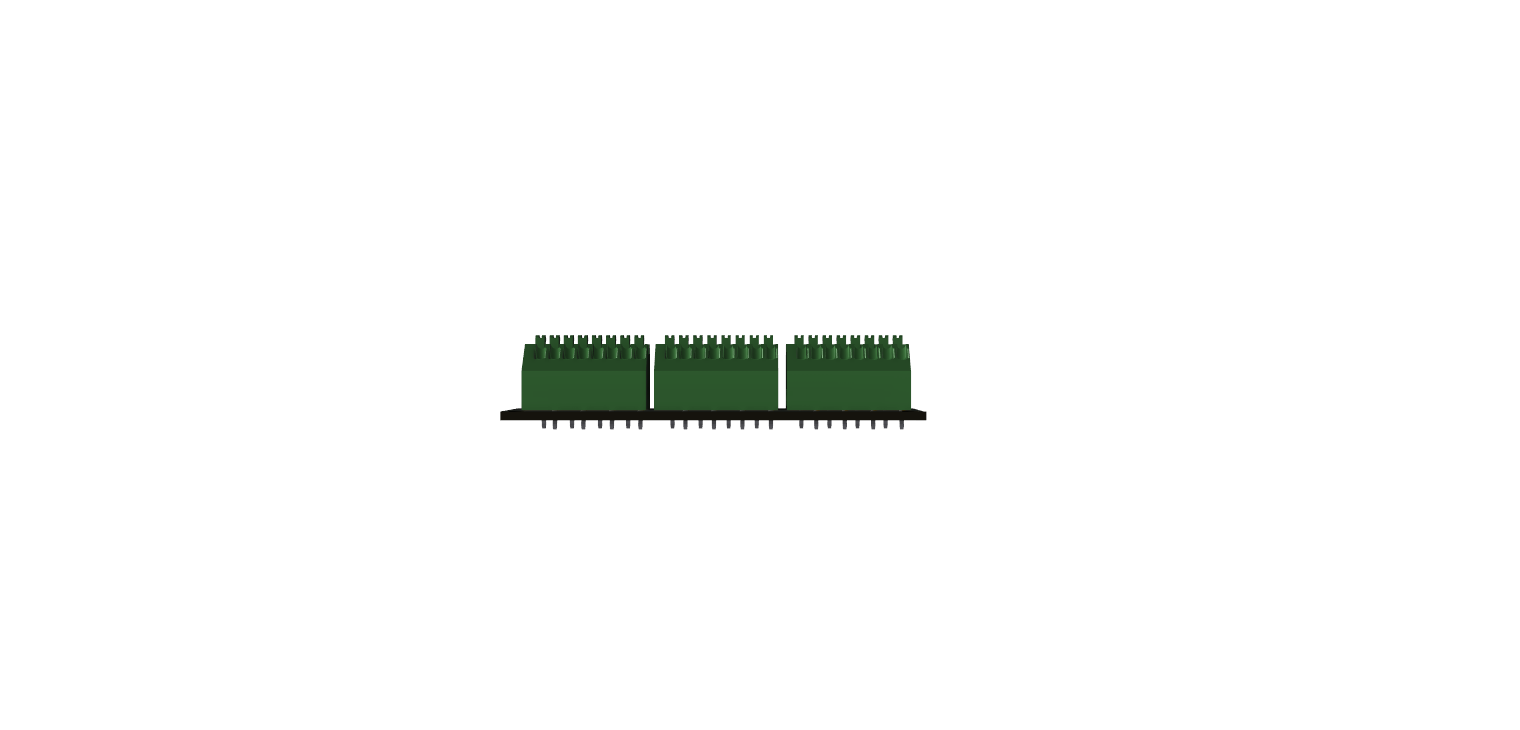
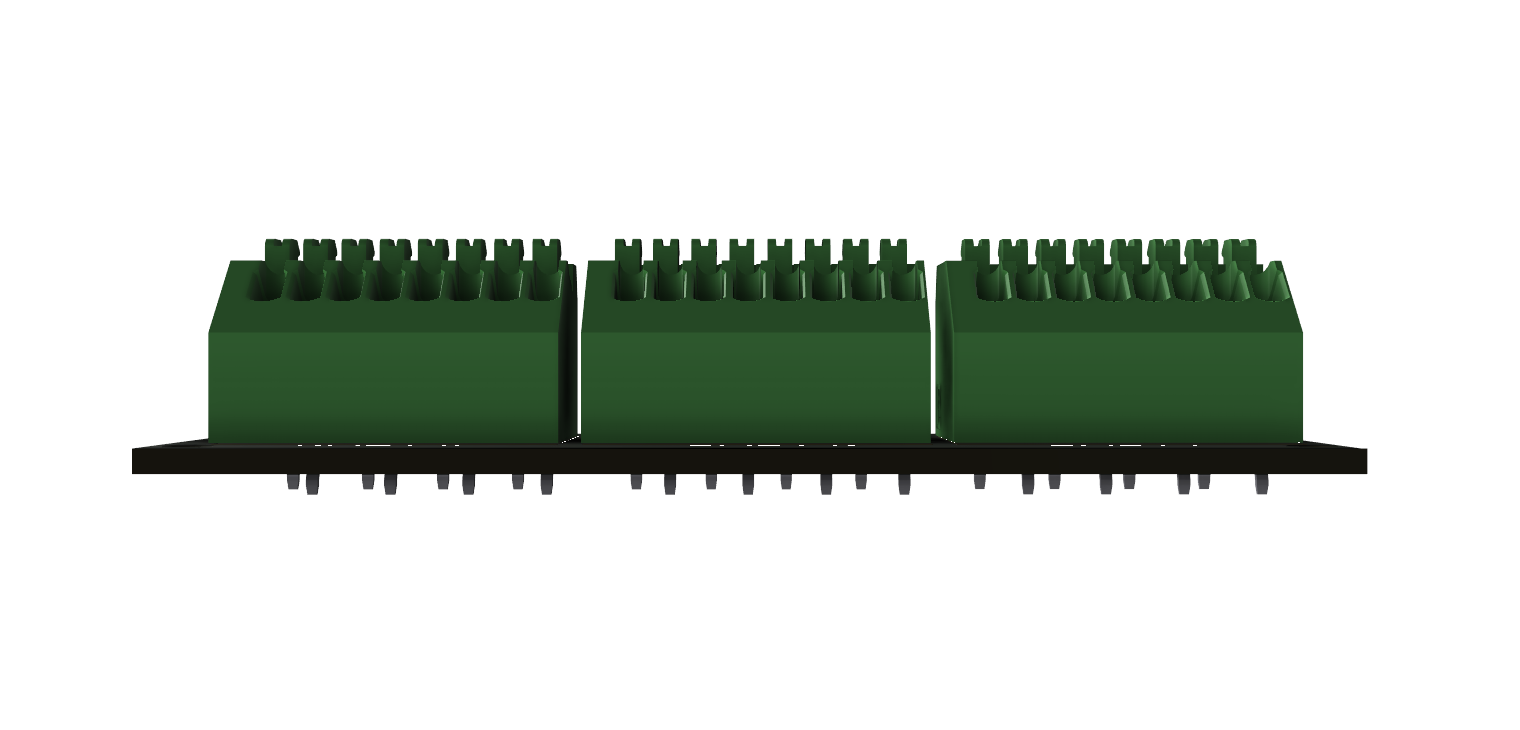
Update readme

Changed region(s): [[0.0618, 0.3014, 0.8967, 0.6932]]

diff --git a/README.md b/README.md
@@ -1,5 +1,5 @@
 # 3x8 Terminal Block
-Simple 3x8 terminal block, alternative to Wago. The nominal current of a single port is 2A, 250V
+Simple 3x8 terminal block, alternative to Wago. The nominal current of a single port is 2A, 250V. Designed for mounting on a DIN rail.
 
 ## PCB manufacturing
 Schematics, gerbers and Bill of Materials (BOM) are available under *Electronic Design* directory. PCBs can be oredered on JLCPCB or any other PCB manufacturer. It is recommended to buy components from reliable sources like Mouse, Farnell, Digikey, TME. All symbols and footprints on the schematics was acquired from mouser page.
@@ -7,13 +7,21 @@ Schematics, gerbers and Bill of Materials (BOM) are available under *Electronic 
 ## Bill of Materials
 There is only one type of component, 3 pcs per PCB - connector Phoenix Contact PTSA 0,5/ 8-2,5-Z
 
+#### DIN Holder:
+* ITALTRONIC 2x 07.6010000\
+* ITALTRONIC 1x 07.6000000
+
+See Links section for datasheets.
+
 ## Images
 ![Top view](https://github.com/TestDuino/3x8_TerminalBlock/blob/main/Images/3X8_TERMINAL_BLOCK_TopView.png)
 ![Left side view](https://github.com/TestDuino/3x8_TerminalBlock/blob/main/Images/3X8_TERMINAL_BLOCK_LeftSide.png)
-![Bottom side view](https://github.com/TestDuino/3x8_TerminalBlock/blob/main/Images/3X8_TERMINAL_BLOCK_BottomSide.png)
+![Front side view](https://github.com/TestDuino/3x8_TerminalBlock/blob/main/Images/3X8_TERMINAL_BLOCK_Front.png)
 
 ### Contributions
 If you find any bugs, have suggestions, or would like to contribute to the development of this project, feel free to contact me or submit a pull request (PR). Your contributions are greatly appreciated, and I am always open to feedback and collaboration. Thank you for helping to improve this project!
 
 ### Links
-1990067 datasheet | https://www.phoenixcontact.com/en-us/products/printed-circuit-board-terminal-ptsa-05-8-25-z-1990067?type=pdf
+1990067 (PTSA 0,5/ 8-2,5-Z) datasheet | https://www.phoenixcontact.com/en-us/products/printed-circuit-board-terminal-ptsa-05-8-25-z-1990067?type=pdf\
+ITALTRONIC 2x 07.6010000 | https://www.tme.eu/Document/9cda323b00e20a6973f34dfd1a1a7434/07_6010000.pdf\
+ITALTRONIC 1x 07.6000000 | https://www.tme.eu/Document/0ed912874d540c883c8aa2a145c2f11e/07_6000000.pdf
